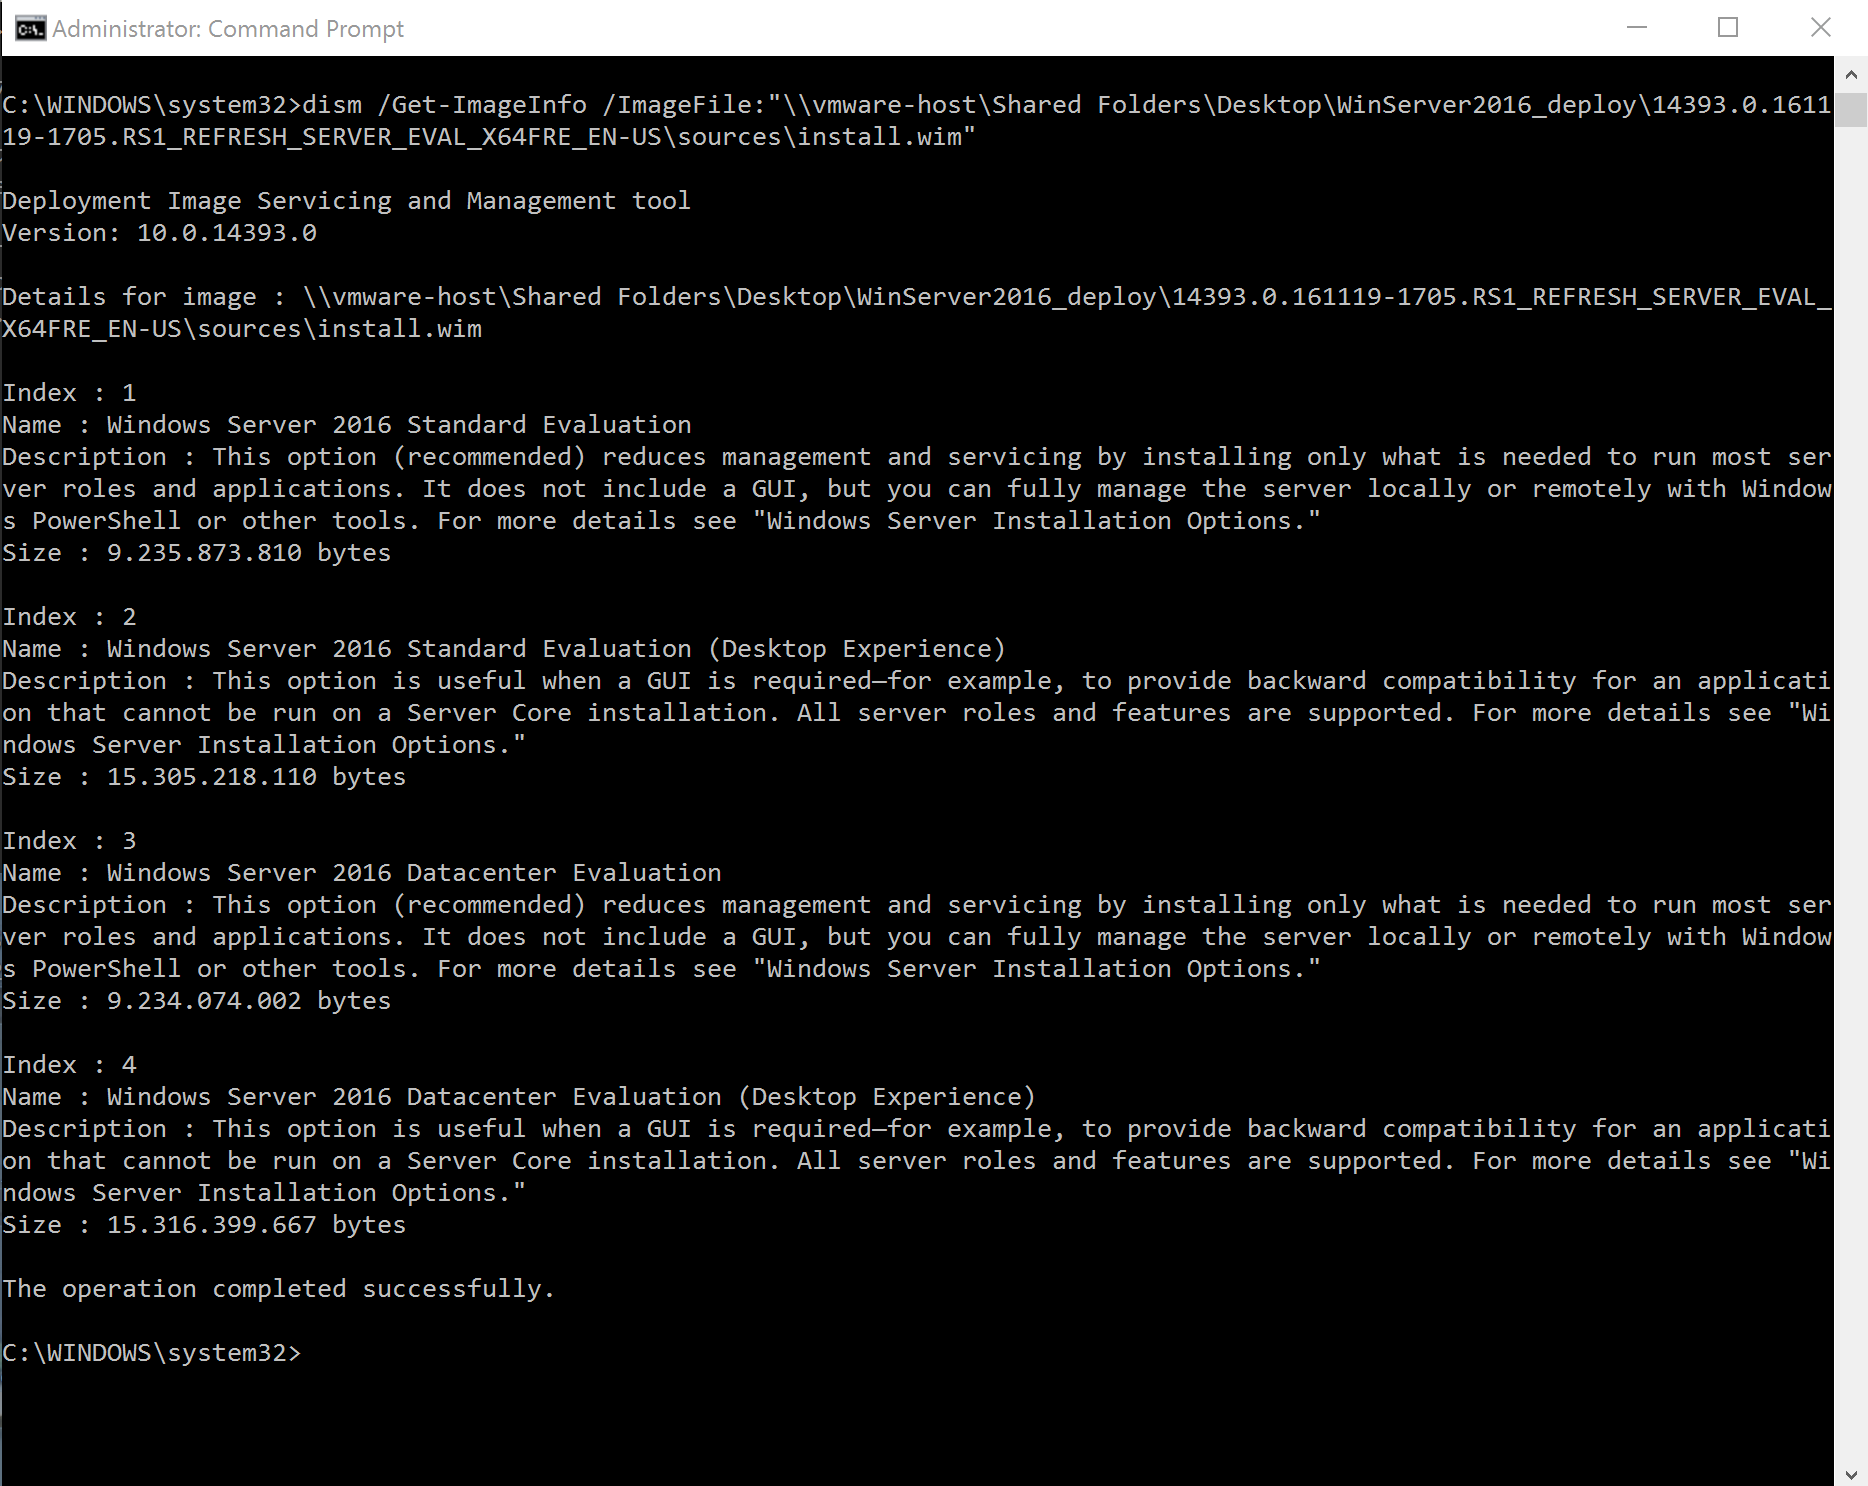
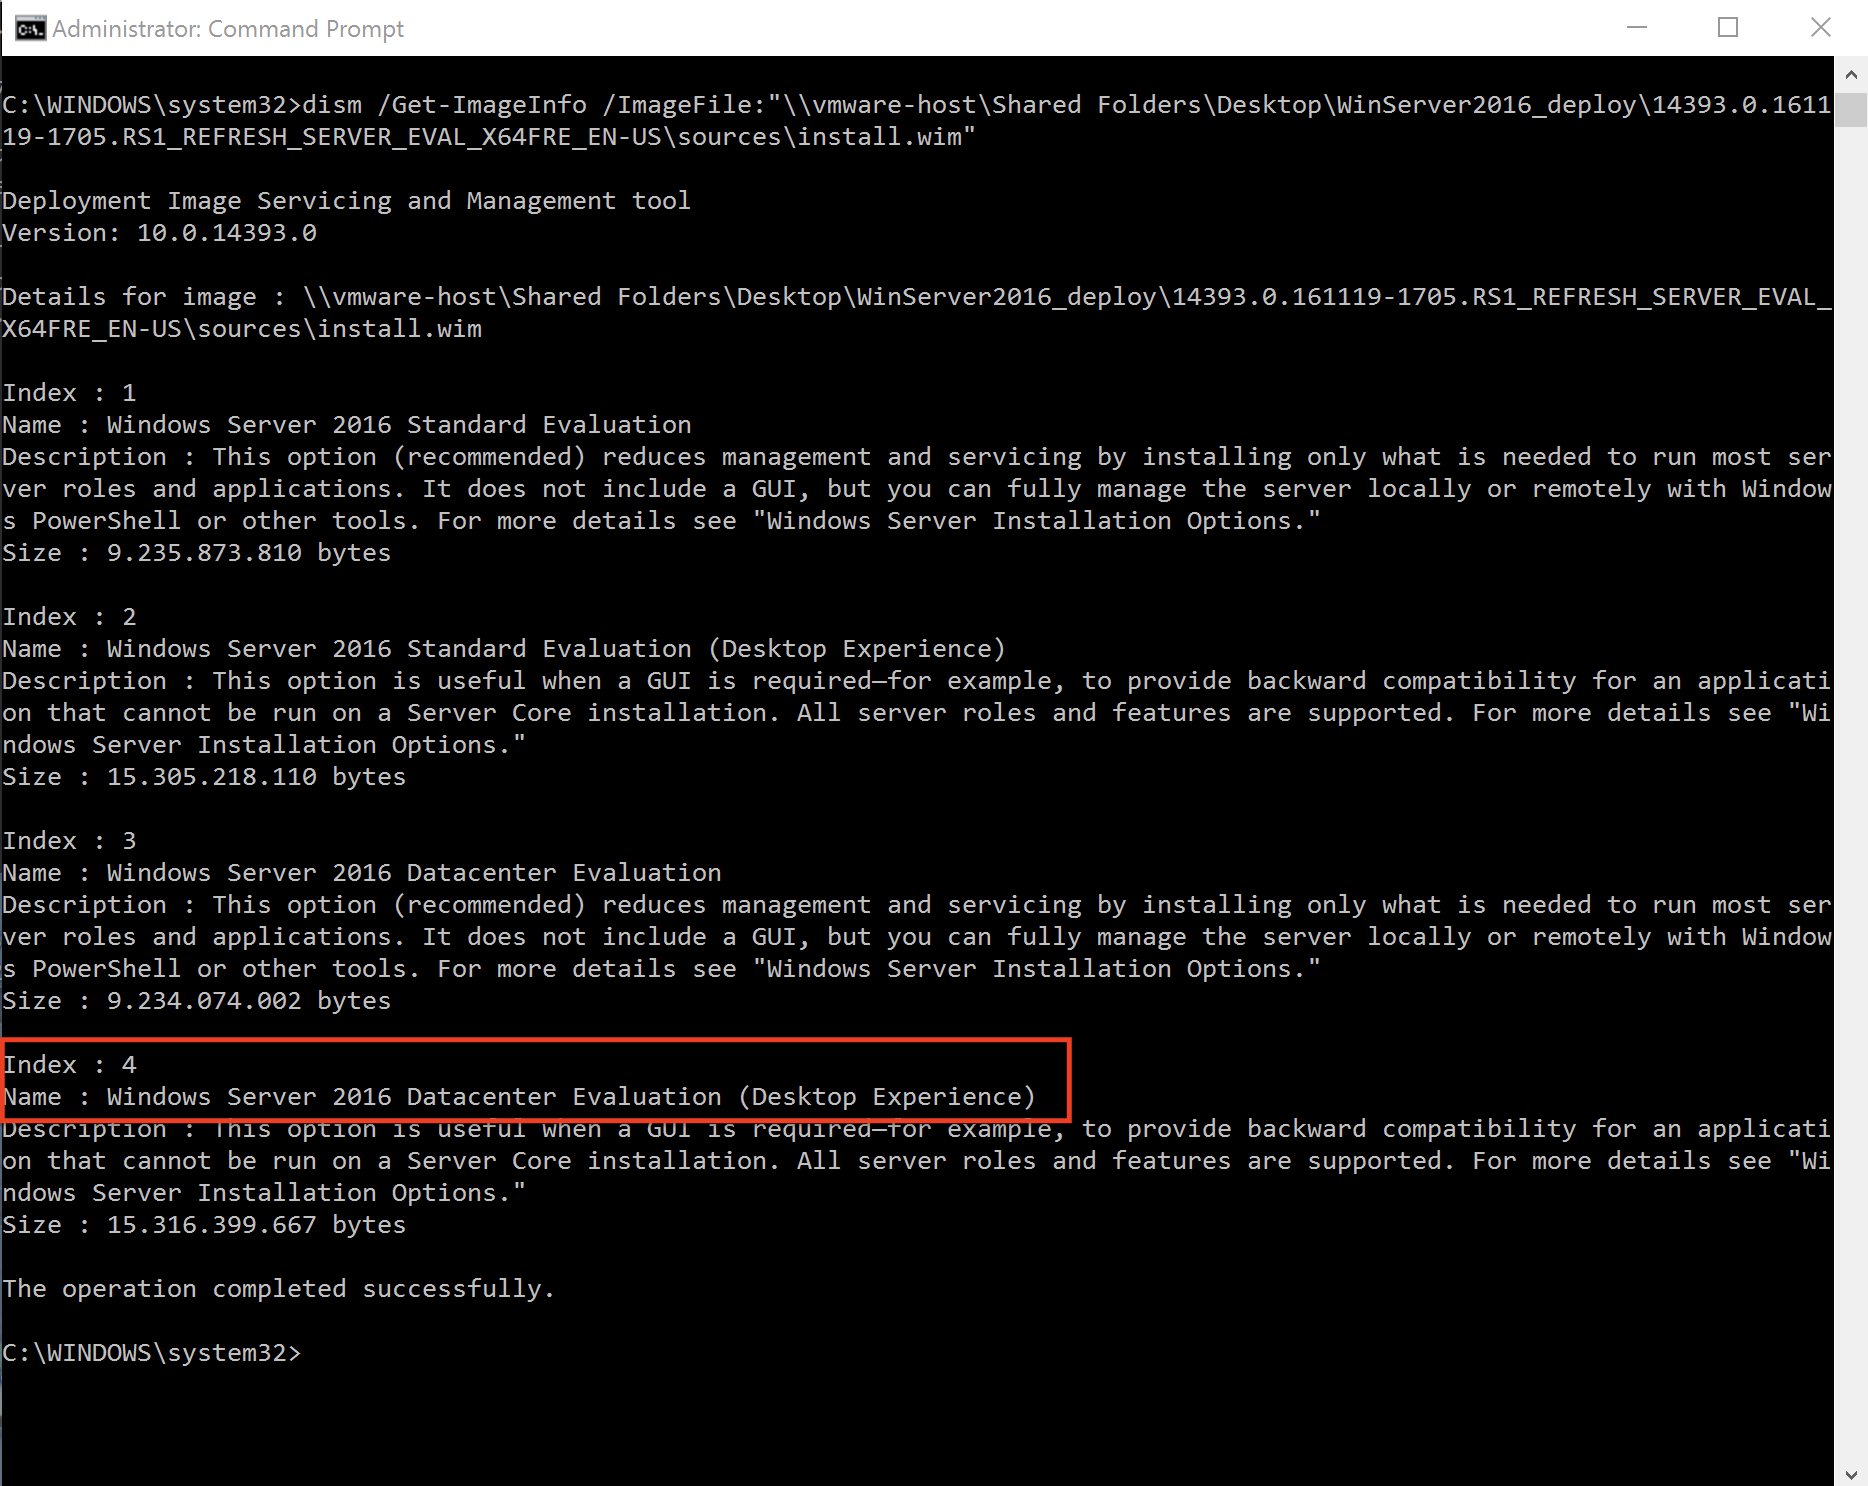
Windows doc

Changed region(s): [[0.0, 0.681, 0.5899, 0.7739]]

diff --git a/kubam/configure/windows.md b/kubam/configure/windows.md
@@ -23,15 +23,15 @@ After ADK is downloaded we will start installation on the local machine. We just
 
 ## Creating "answer file" (autounattend.xml)
 
-To be able to generate answer file, we need to copy content of Windows Server 2016 instalation image (.iso) to some folder on our workstation (or server). We can mount it to virtual optical drive, or extract it using archiver. In this example we are using [Windows Server 2016 Evaluation](https://www.microsoft.com/en-us/evalcenter/evaluate-windows-server-2016) (14393.0.161119-1705.RS1\_REFRESH\_SERVER\_EVAL\_X64FRE\_EN-US.ISO). 
+To be able to generate answer file, we need to copy content of Windows Server 2016 instalation image (.iso) to some folder on our workstation (or server). We can mount it to virtual optical drive, or extract it using archiver. In this example we are using [Windows Server 2016 Evaluation](https://www.microsoft.com/en-us/evalcenter/evaluate-windows-server-2016) (14393.0.161119-1705.RS1\_REFRESH\_SERVER\_EVAL\_X64FRE\_EN-US.ISO), and unpacking ith with archiver.
 
 ![img](../img/ISO extraction.png)
 
-After we have instalation files on our workstation, we will run Windows System Image Manager that we installed in previous step.
+After we have instalation files on our workstation, we will run Windows System Image Manager that we have installed in previous step.
 
 ![img](../img/Run SIM.png)
 
-In System Image Manager we have to import instalation image for creation of the answer file.  
+In System Image Manager we have to import instalation image to create __answer file__.  
 
 ![img](../img/Select Windows Image.png)
 
@@ -39,7 +39,7 @@ In System Image Manager we have to import instalation image for creation of the 
 We are selecting __install.wim__ from the __/sources__ folder in extracted .iso image.
 ![img](../img/Install wim.png)
 
-We have option to choose which version of operative system we want to prepare answer file for. We are selecting __Windows Server 2016 SERVERDATACENTER__
+We have option to choose which version of operative system we want to prepare answer file for. We are selecting __Windows Server 2016 SERVERDATACENTER__.
 ![img](../img/Select OS.png)
 
 We have to wait for few minutes while SIM is generating catalog file. After catalog file is created we will create new answer file (File > New Answer File). Now we can start adding components for our answer file.
@@ -48,16 +48,41 @@ First we are selecting __amd64_Microsoft-Windows-International-Core-WinPE\_neutr
 
 Then we have to specify language settings, you will enter values for your language preferences, we are entering __en-US__:
 
-* InputLocale: Keyboard layout (__en-US__)
-* SystemLocale: system locale language (__en-US__)
-* UILanguage: User Interface language (__en-US__)
-* UserLocale: per-user settings for currency, time, numbers... (__en-US__)
+* __InputLocale:__ Keyboard layout (__en-US__)
+* __SystemLocale:__ system locale language (__en-US__)
+* __UILanguage:__ User Interface language (__en-US__)
+* __UserLocale:__ per-user settings for currency, time, numbers... (__en-US__)
 
 ![img](../img/1windowsPE1.png)
 
 Click __+__ next to __amd64_Microsoft-Windows-International-Core-WinPE\_neutral__ in middle pane and navigate to __SetupUILanguage__ to specify the language used during Windows Setup.
 
 ![img](../img/Setup Language.png)
+
+
+Next, we are selecting amd64_Microsoft-Windows-Setup, placing it in __1. WindowsPE__, navigating to __DiskConfiguration__ and right clicking on it to __Insert New Disk__.
+
+![img](../img/Insert Disk.png)
+
+
+
+We have to create partitions on Hard Drive. We are using [this](https://docs.microsoft.com/en-us/previous-versions/windows/it-pro/windows-8.1-and-8/hh825701(v%3dwin.10)) Microsoft guide for configuring __BIOS/MBR-Based Hard Drive Partitions__:
+
+![img](../img/MBR Partition.png)
+
+Click __+__ next to __Disk__ in middle pane and right click on __CreatePartition__. Select __Insert New CreatePartition__. Populate settings based on above example. Repeate procedure for adding second partition.
+
+Right click on __ModifyPartitions__. Select __Insert New ModifyPartition__. Again populate settings based on above example. Repeate procedure for modifying second partition.
+
+Click __+__ next to __ImageInstall__, navigate to __InstallTo__ and populate it according to example.
+
+After following this steps, your disk configuration should look like this:
+
+![img](../img/Disk Config.png)
+
+If you want to configure __UEFI/GPT-Based Hard Drive Partitions__, you can follow [this guide](https://docs.microsoft.com/en-us/previous-versions/windows/it-pro/windows-8.1-and-8/hh825702(v=win.10))
+
+Now we are setting up __InstallFrom__ under __ImageInstall__. As there can be multiple Windows images inside __install.wim__, we have to look into it to select image we want to install.
 
 To get a list of included OS instalations, we are going to run __dism__ tool (included in Windows OS) in command prompt and point to __install.wim__.
 
@@ -68,6 +93,21 @@ dism /Get-ImageInfo /ImageFile:<Path to file>\install.wim
 We are getting following output from __dism__ tool:
 
 ![img](../img/dism.png)
+
+In this example we want to install __Windows Server 2016 Datacenter Evaluation (Desktop Experience)__, which __index__ is __4__.
+
+
+Right click on __InstallFrom__ and select __Insert New MetaData__, under settings enter key __/IMAGE/INDEX__ and value __4__
+
+![img](../img/Image Index.png)
+
+Next, we have to set up user data. Click on __UserData__ section and, set __AcceptEula__ to __true__ and fill your user settings.
+
+![img](../img/User Data.png)
+
+If you want to add __licence key__, you can add it in __ProductKey__ section. We are going to skip this part as we are working with evaluation image.
+
+
 
 
 
